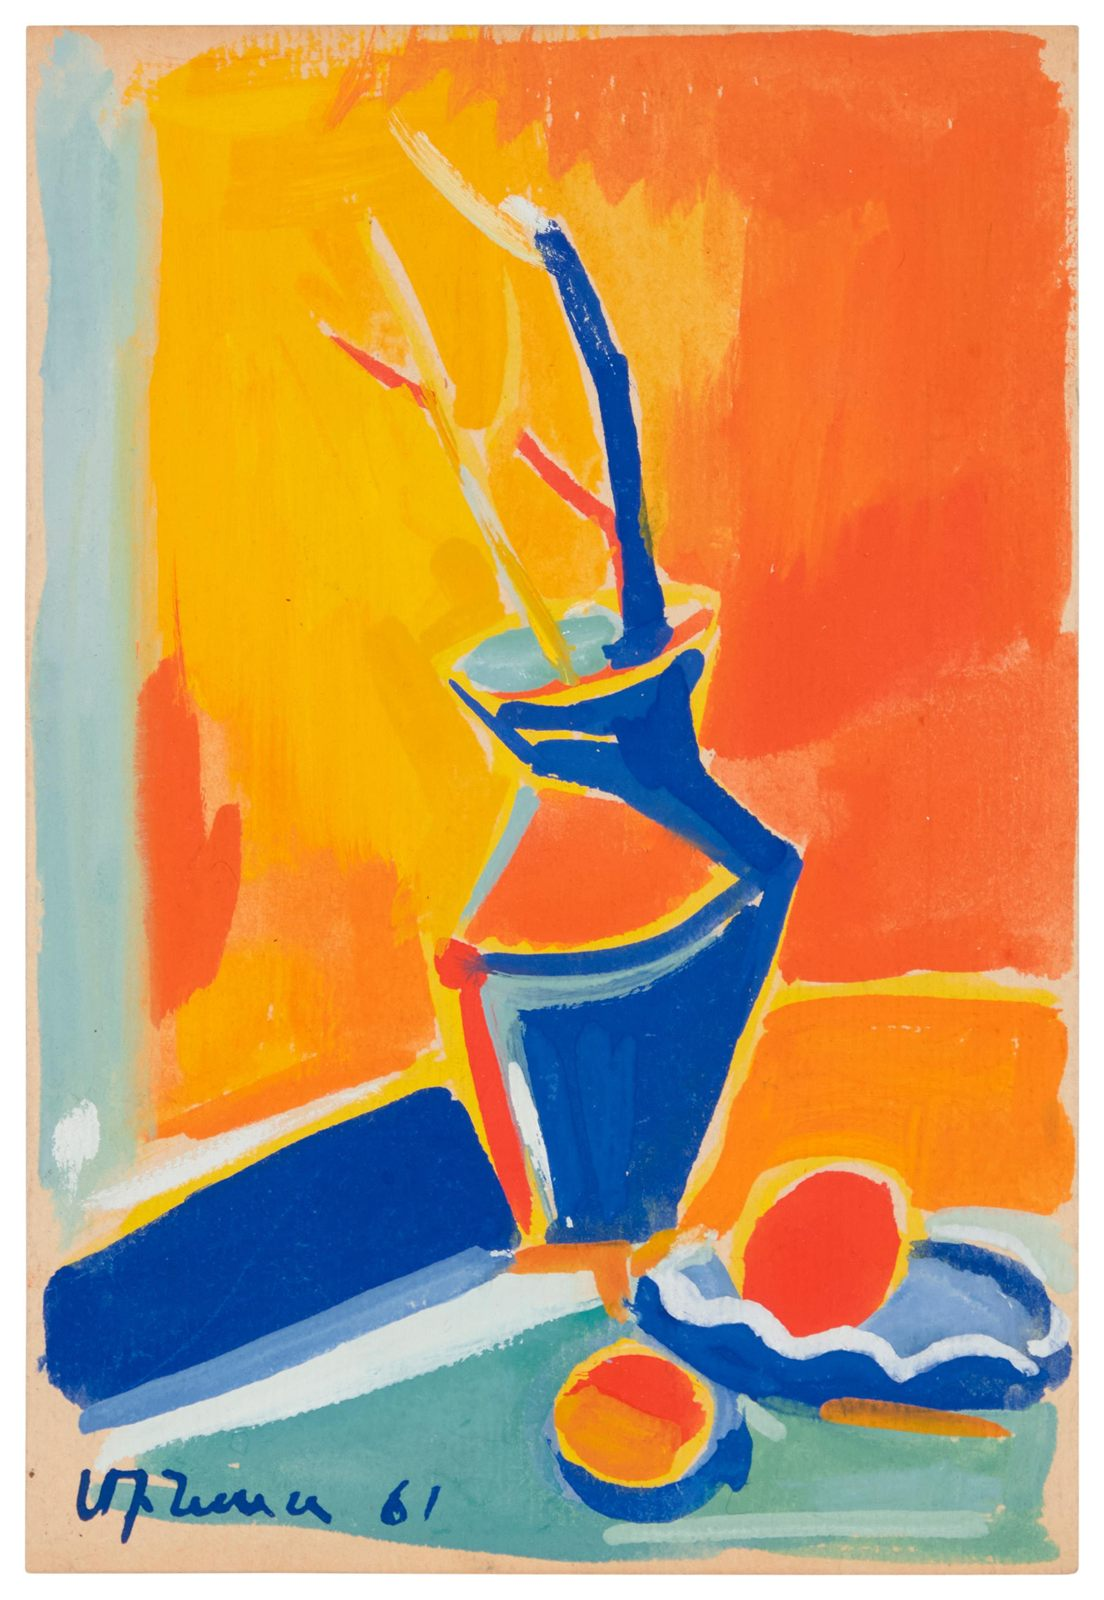
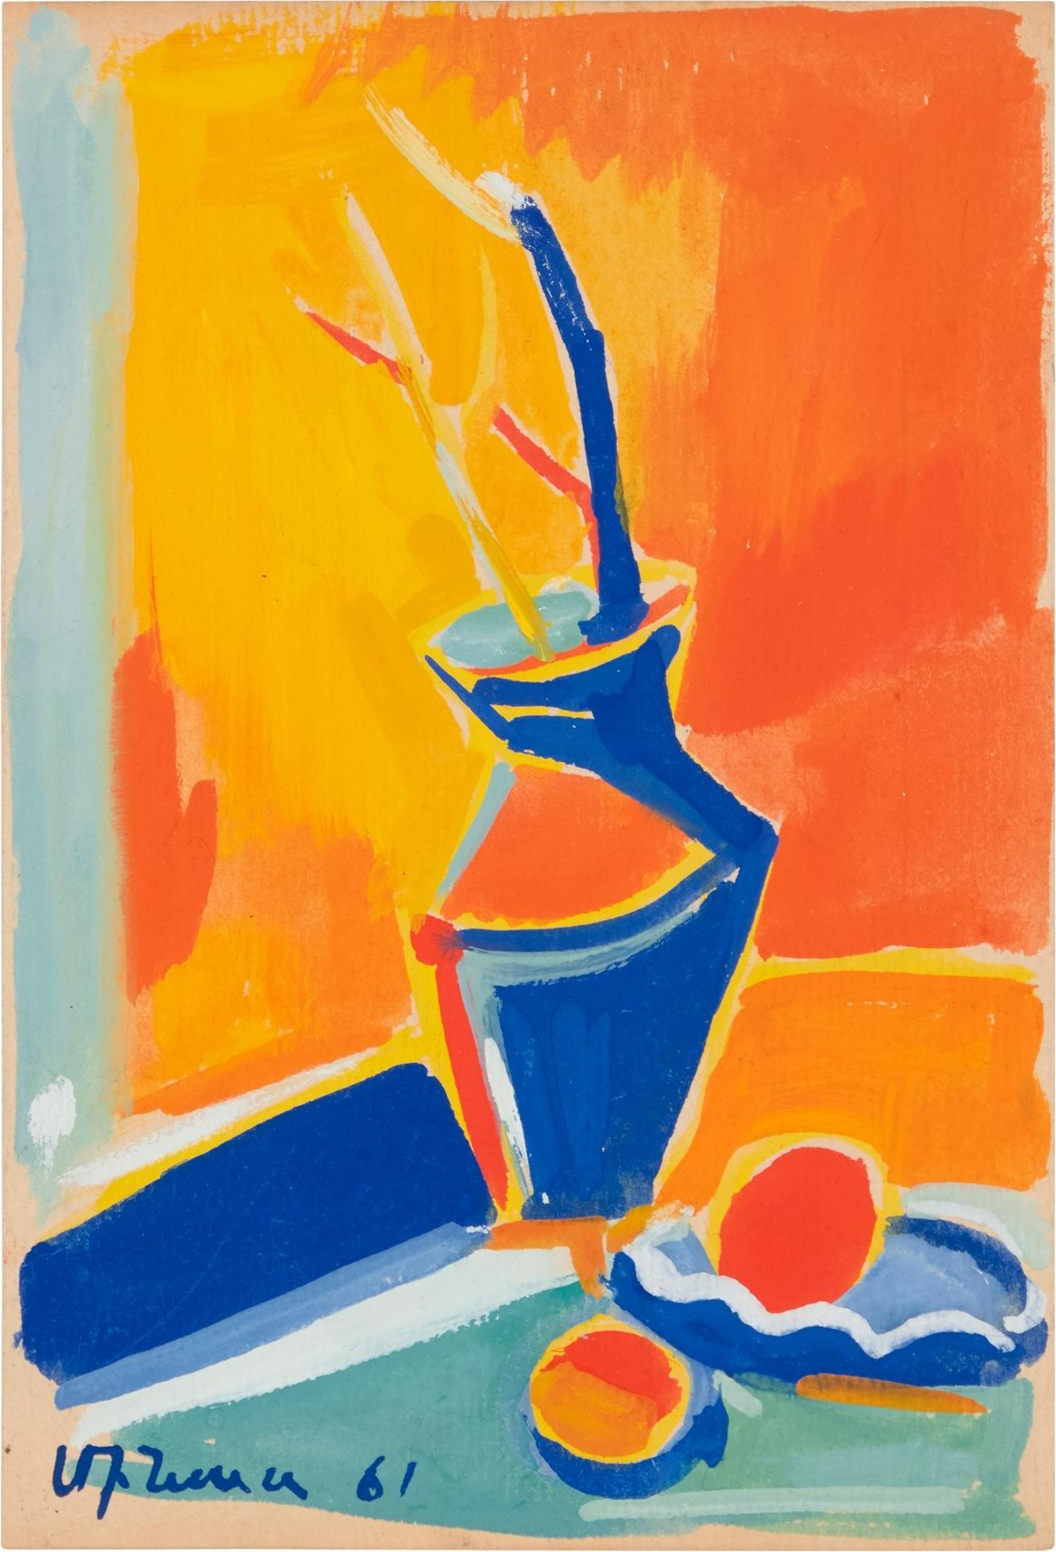
fix(peintres): crop white scan borders from three Minas plates
minas-conversation-1971, minas-femme-bleue and minas-nature-morte-1961 had
pure-white canvas margins baked into the scans, which showed as letterboxing
in the cover-cropped culture gate card. Trim to the painting and update the
matching inline aspect-ratios in peintres.html.

diff --git a/peintres.html b/peintres.html
@@ -392,7 +392,7 @@ footer a:hover{ border-color:var(--pom); }
           data-cap="<span class='lb-art'>« Conversation »</span><span class='lb-sep'>·</span>1971 — Minas Avetisyan">
           <img src="Images/peintres/minas-conversation-1971.jpg"
                alt="Village arménien aux maisons en coupole, rouges et oranges incandescents, deux figures sous un arbre — Minas Avetisyan, 1971"
-               loading="eager" decoding="async" style="aspect-ratio:1600/1227;" />
+               loading="eager" decoding="async" style="aspect-ratio:1584/1205;" />
         </button>
         <figcaption><span class="p-num">i.</span><span class="p-cap"><em>« Conversation »</em> <span class="yr">· 1971</span></span></figcaption>
       </figure>
@@ -402,7 +402,7 @@ footer a:hover{ border-color:var(--pom); }
           data-cap="<span class='lb-art'>« Nature morte »</span><span class='lb-sep'>·</span>1961 — gouache — Minas Avetisyan">
           <img src="Images/peintres/minas-nature-morte-1961.jpg"
                alt="Nature morte fauve : vase bleu et branches sur fond orange — Minas Avetisyan, gouache, 1961"
-               loading="lazy" decoding="async" style="aspect-ratio:1104/1600;" />
+               loading="lazy" decoding="async" style="aspect-ratio:1056/1552;" />
         </button>
         <figcaption><span class="p-num">ii.</span><span class="p-cap"><em>« Nature morte »</em> <span class="yr">· 1961</span></span></figcaption>
       </figure>
@@ -412,7 +412,7 @@ footer a:hover{ border-color:var(--pom); }
           data-cap="<span class='lb-art'>Portrait de femme</span><span class='lb-sep'>·</span>gouache — Minas Avetisyan">
           <img src="Images/peintres/minas-femme-bleue.jpg"
                alt="Portrait expressionniste d'une femme à la chevelure bleue sur fond orange et vert — Minas Avetisyan"
-               loading="lazy" decoding="async" style="aspect-ratio:1436/1600;" />
+               loading="lazy" decoding="async" style="aspect-ratio:1385/1550;" />
         </button>
         <figcaption><span class="p-num">iii.</span><span class="p-cap">Portrait de femme</span></figcaption>
       </figure>